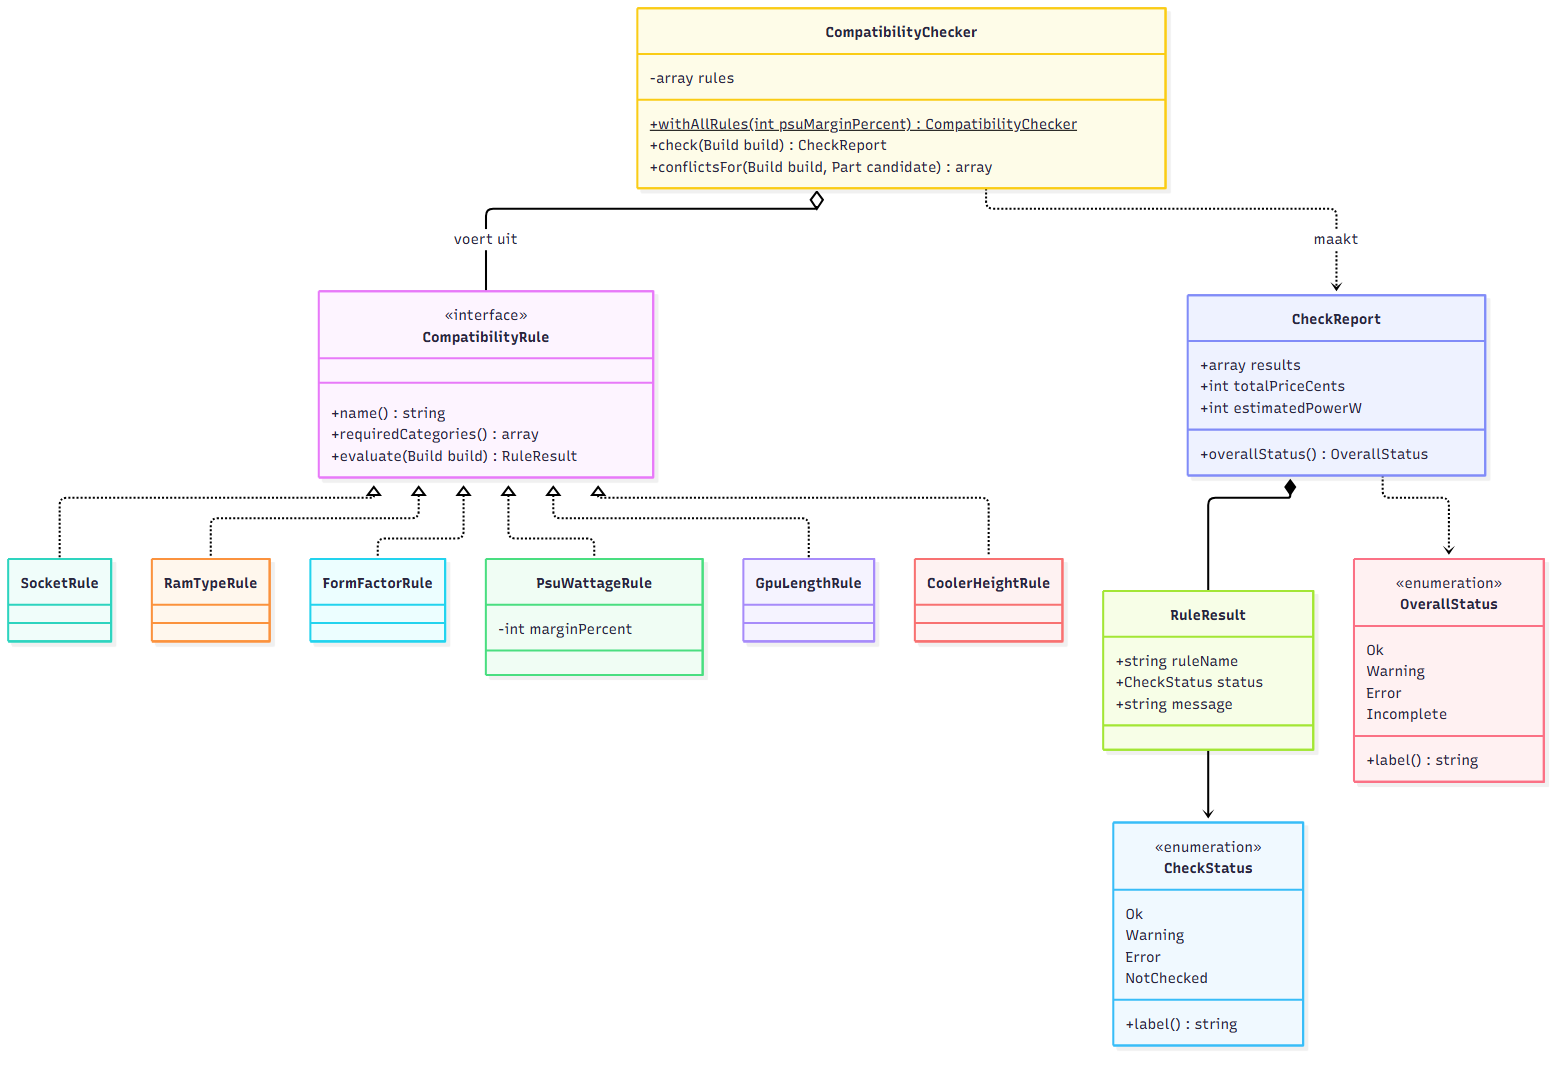
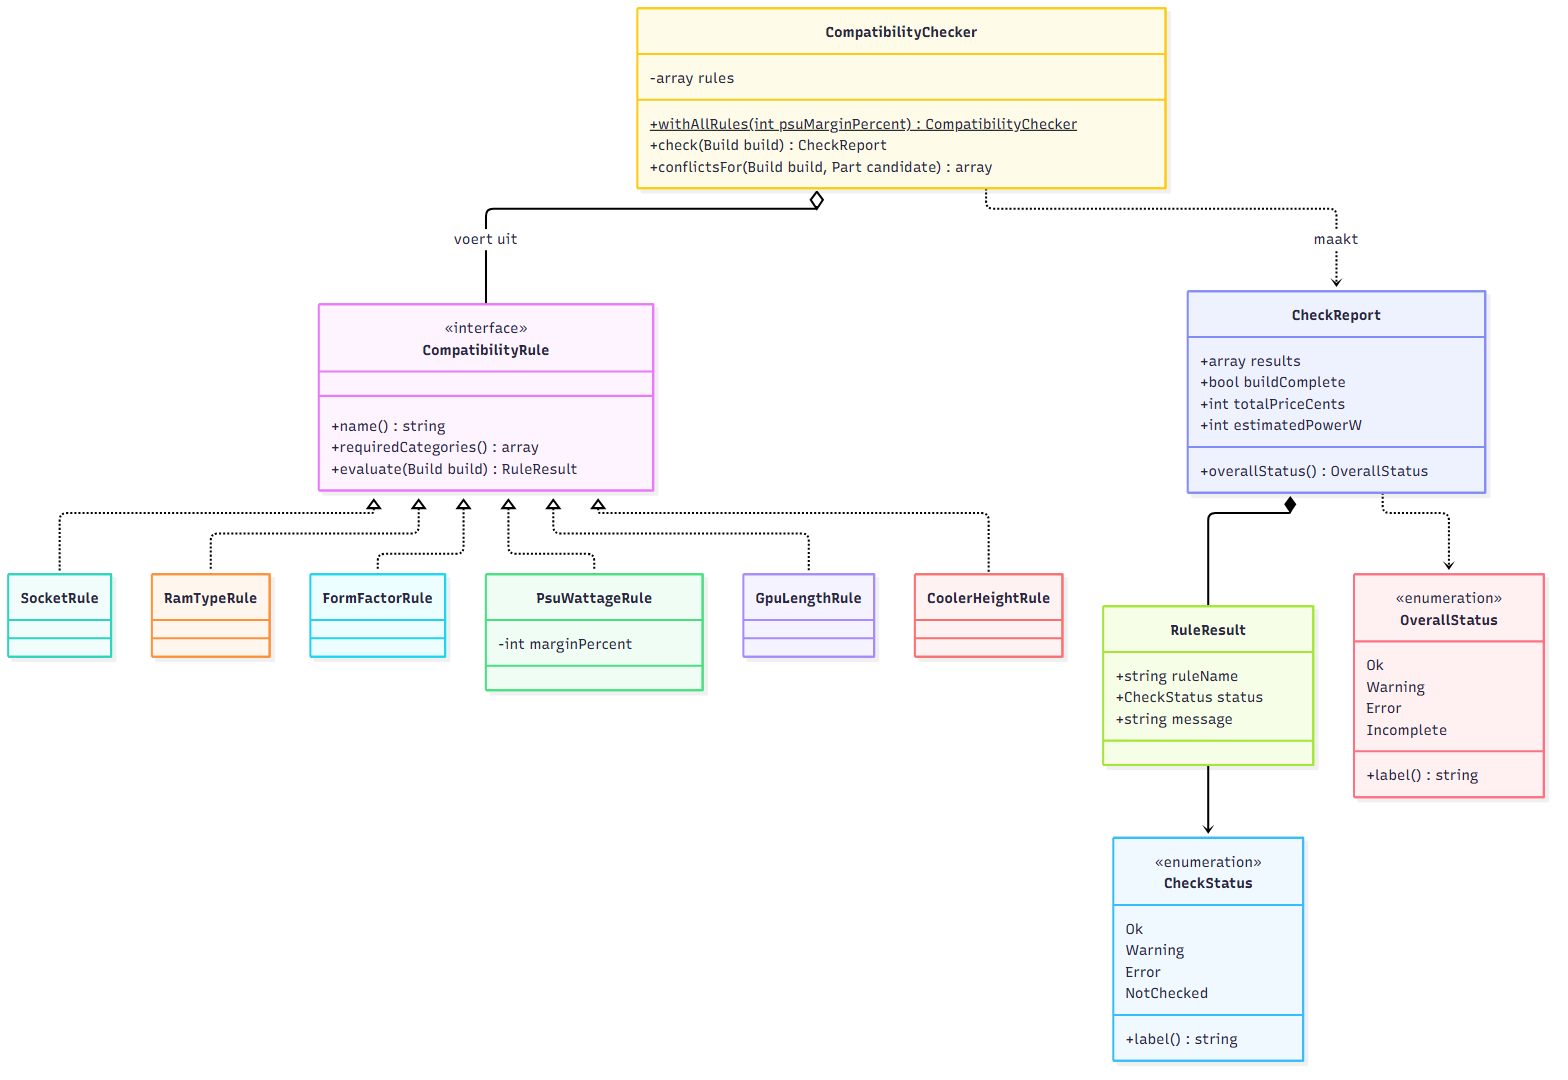
docs: ontwerp bijgewerkt met HTTP-laag en foutcodes (#18)

diff --git a/docs/ontwerp.md b/docs/ontwerp.md
@@ -34,7 +34,7 @@ flowchart TB
 | Weergave | `templates/` | PHP-templates die de HTML maken. |
 | Database | `database/` | `schema.sql` met de tabellen, `seed.php` om de database te vullen en in `data/` de onderdelen zelf. |
 | Configuratie | `config/`, `.env` | Databasegegevens, voedingsmarge en budgetverdeling. |
-| Tests | `tests/Unit/`, `tests/Api/` | PHPUnit-tests. |
+| Tests | `tests/Unit/`, `tests/Database/`, `tests/Api/` | PHPUnit-tests. In `tests/Support/` staan hulpklassen. |
 
 ## 2. Usecasediagram
 
@@ -449,8 +449,10 @@ classDiagram
     }
     class BuildRepository {
         -PDO pdo
+        -PartRepository parts
         +save(string name, Build build) SavedBuild
         +findByShareCode(string code) SavedBuild
+        -newShareCode() string
     }
     class PartApiController {
         +index(Request request) Response
@@ -474,12 +476,64 @@ classDiagram
     PartRepository ..> PartFilter
     PartRepository --> PartMapper
     PartApiController --> PartRepository
+    BuildApiController --> PartRepository
     BuildApiController --> BuildRepository
     BuildApiController --> CompatibilityChecker
+    BuildRepository --> PartRepository
     RecommendationApiController --> Recommender
 ```
 
 De paginacontrollers (`BuildPageController`, `RecommendationPageController`) gebruiken dezelfde repositories en logica als de API-controllers, maar geven HTML terug in plaats van JSON.
+
+### 4.4 HTTP-laag
+
+Elk verzoek komt binnen in `public/index.php`. Dat maakt een `Request`, geeft die aan `Application` en stuurt de `Response` terug naar de browser.
+
+```mermaid
+classDiagram
+    direction LR
+    class Application {
+        -array config
+        +handle(Request request) Response
+        -createRouter() Router
+        -errorResponse(int status, string code, string message) Response
+    }
+    class Router {
+        -array routes
+        +add(string method, string path, callable handler) void
+        +dispatch(Request request) Response
+    }
+    class Request {
+        +string method
+        +string path
+        +array queryParams
+        +string body
+        +array routeParams
+        +fromGlobals() Request$
+        +withRouteParams(array routeParams) Request
+        +query(string name) string
+        +json() array
+    }
+    class Response {
+        +int status
+        +string body
+        +array headers
+        +json(array data, int status) Response$
+        +send() void
+    }
+    class ApiException {
+        +int status
+        +string errorCode
+    }
+
+    Application --> Router
+    Router ..> Request
+    Router ..> Response
+    Router ..> ApiException : gooit
+    Application ..> ApiException : vangt
+```
+
+`Application` is de enige plek waar fouten worden afgevangen. Een `ApiException` is een fout die de gebruiker mag zien, zoals een onbekende categorie. Alle andere fouten geven een 500 met een algemene melding, en de echte fout gaat naar het logbestand. Zo komen er nooit technische details bij de gebruiker terecht.
 
 ## 5. Activiteitendiagram compatibiliteitscheck
 
@@ -620,20 +674,61 @@ Betekenis van de statuscodes:
 | 422 | De invoer is wel JSON, maar klopt niet, zoals een onbekende categorie of een budget van 0. |
 | 500 | Onverwachte fout op de server. De gebruiker ziet een algemene melding, de details komen in het logbestand. |
 
+Foutcodes die de API teruggeeft:
+
+| Status | Code | Wanneer |
+|---|---|---|
+| 400 | `invalid_json` | De body is geen geldige JSON |
+| 404 | `not_found` | Het pad bestaat niet |
+| 404 | `part_not_found` | Onderdeel met dit id bestaat niet |
+| 404 | `build_not_found` | Geen build met deze code |
+| 405 | `method_not_allowed` | Het pad bestaat, maar niet met deze methode |
+| 422 | `invalid_category` | Onbekende categorie in het filter |
+| 422 | `invalid_max_price` | Maximale prijs is geen getal boven 0 |
+| 422 | `invalid_part_ids` | `part_ids` is geen lijst met positieve gehele getallen |
+| 422 | `unknown_part` | Een onderdeel uit de lijst bestaat niet |
+| 422 | `duplicate_category` | Twee onderdelen in dezelfde categorie |
+| 422 | `invalid_name` | Naam is leeg of langer dan 60 tekens |
+| 422 | `empty_build` | Build zonder onderdelen opslaan |
+| 500 | `server_error` | Onverwachte fout op de server |
+
+Een onderdeel in een antwoord ziet er zo uit. Wat in `specs` staat, hangt af van de categorie:
+
+```json
+{
+  "id": 3,
+  "category": "cpu",
+  "brand": "AMD",
+  "name": "Ryzen 5 7600 Boxed",
+  "price_eur": 176.82,
+  "price_date": "2026-10-28",
+  "power_w": 88,
+  "specs": {
+    "socket": "AM5",
+    "cores": 6,
+    "threads": 12,
+    "boost_clock_ghz": 5.1,
+    "has_integrated_graphics": true
+  }
+}
+```
+
+`GET /api/parts` geeft `count` en een lijst `parts` terug. Zijn er geen resultaten, dan is dat gewoon een 200 met `count` 0. `POST /api/builds` en `GET /api/builds/{code}` geven `share_code`, `url`, `name`, `created_at`, `parts` en `check` terug, waarbij `check` hetzelfde is als het antwoord van de controle hieronder.
+
 Voorbeeld van een controle:
 
 ```http
 POST /api/builds/check
 Content-Type: application/json
 
-{ "part_ids": [3, 12, 21] }
+{ "part_ids": [3, 2] }
 ```
 
 ```json
 {
   "overall_status": "error",
-  "total_price_eur": 478.00,
-  "estimated_power_w": 212,
+  "total_price_eur": 272.3,
+  "estimated_power_w": 128,
   "results": [
     {
       "rule": "socket",
@@ -654,8 +749,8 @@ Voorbeeld van een foutmelding:
 ```json
 {
   "error": {
-    "code": "invalid_budget",
-    "message": "Vul een budget in van minimaal 1 euro."
+    "code": "unknown_part",
+    "message": "Deze onderdelen bestaan niet: 999."
   }
 }
 ```
